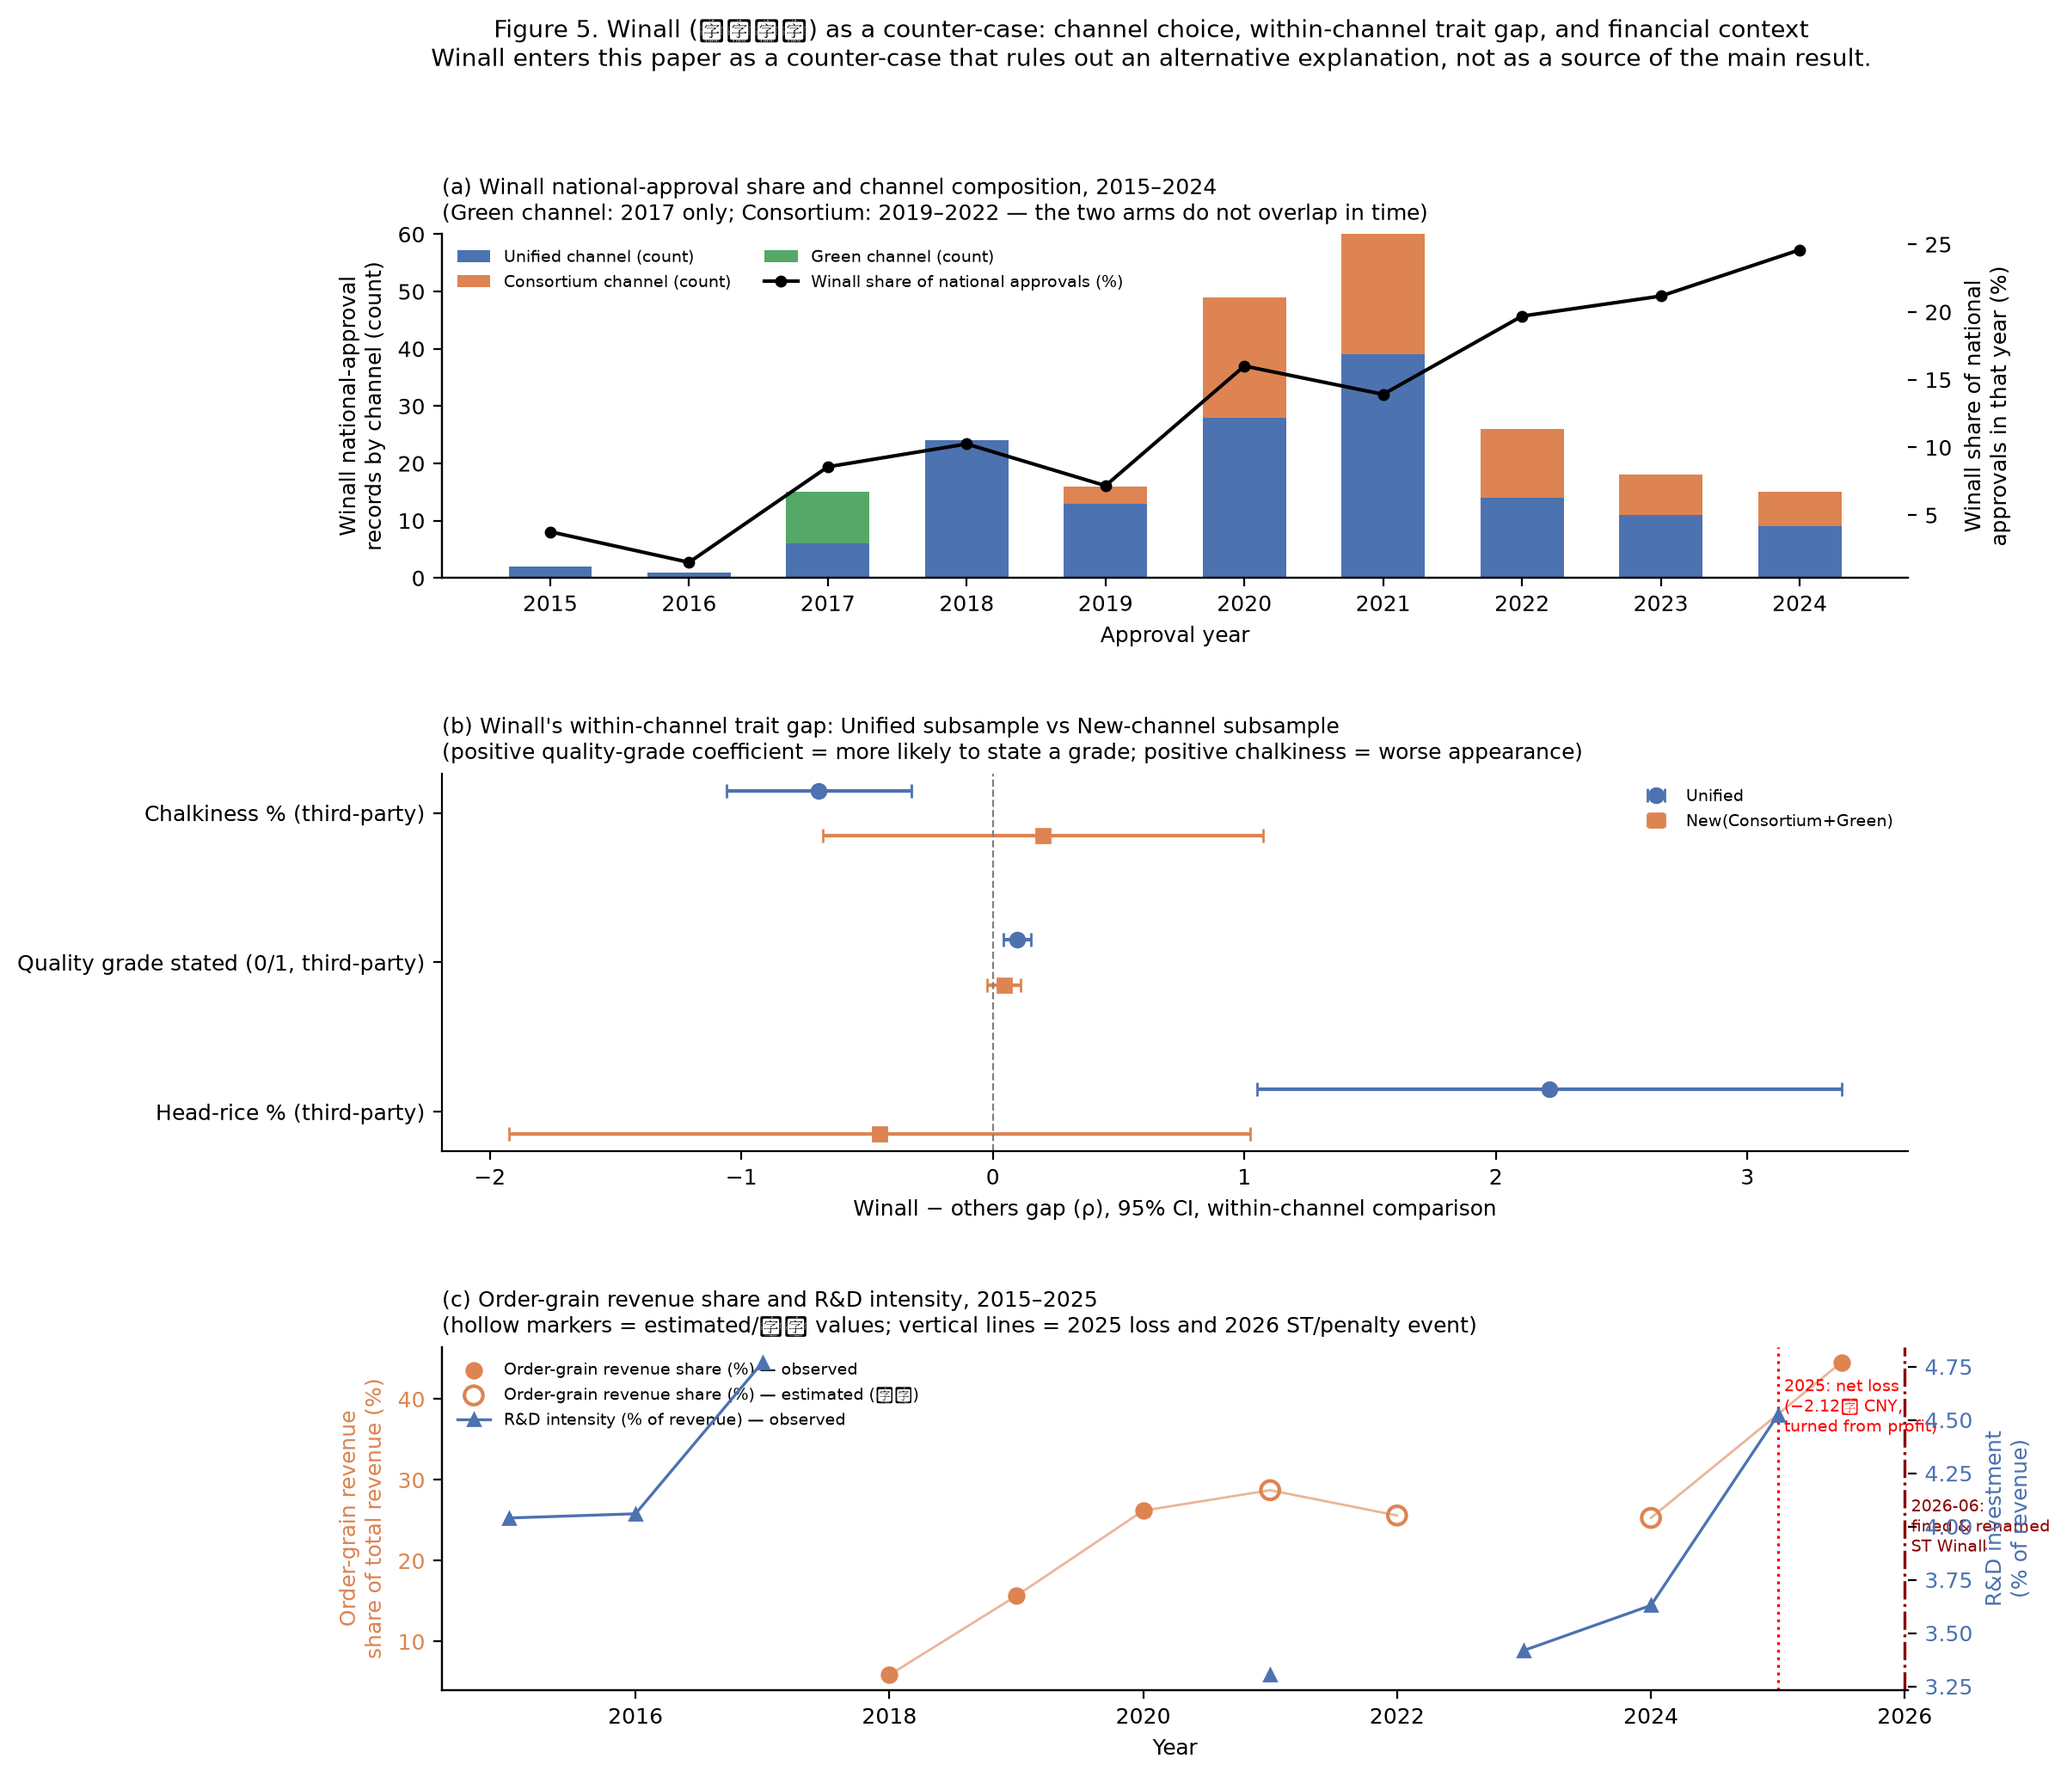
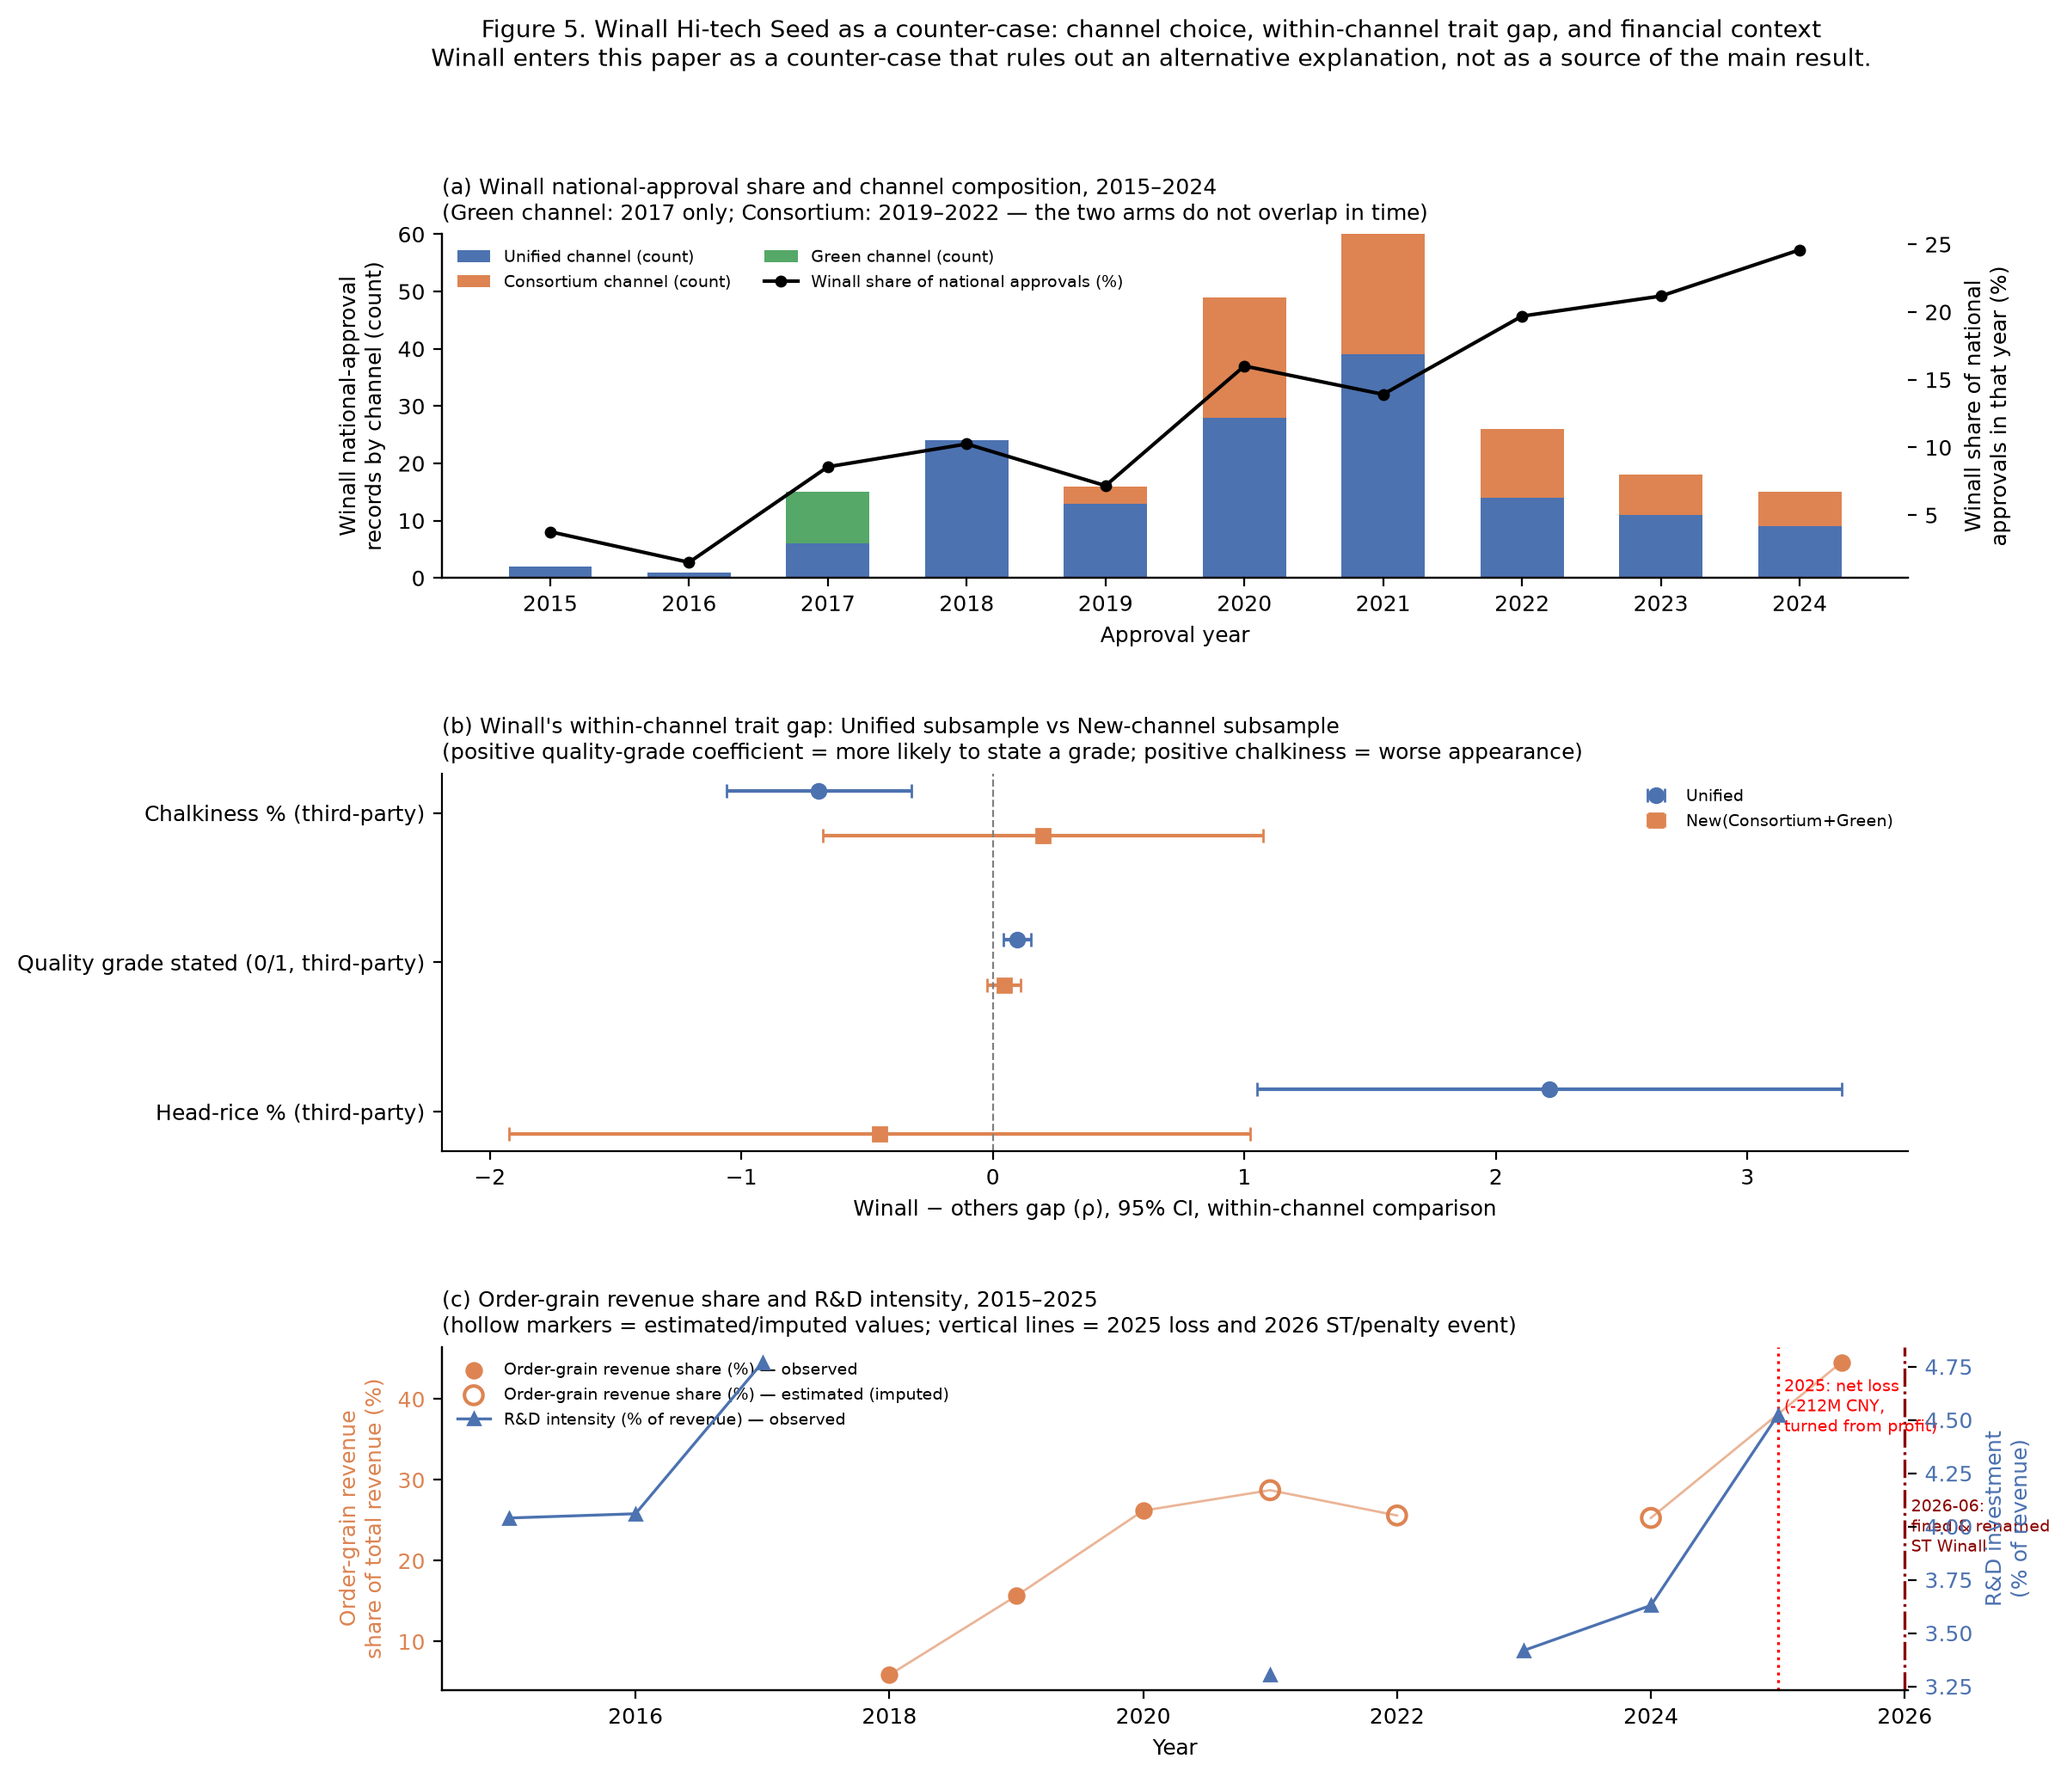
Genericize sci_writer workflow templates: parameterize ROOT path via args.root, drop case-specific 'quanyin-' name prefix
Claude-Session: https://claude.ai/code/session_01CcqZYMkMVHhsffAfbdzjDH

Changed region(s): [[0.2184, 0.0, 0.8735, 0.031], [0.3744, 0.7431, 0.7176, 0.805], [0.8735, 0.7741, 0.9047, 0.805]]

diff --git a/.claude/skills/sci_writer/scripts/workflows/analysis.js b/.claude/skills/sci_writer/scripts/workflows/analysis.js
@@ -1,9 +1,9 @@
 export const meta = {
-  name: 'quanyin-analysis',
+  name: 'analysis',
   description: 'Run the quantitative analyses of the research route on collected data: scripts, figures, tables, results notes; then independent reproduction check',
   phases: [{ title: 'Analyze' }, { title: 'Reproduce' }],
 }
-const ROOT = '/home/user/video'
+const ROOT = (args && args.root) || '/ABSOLUTE/PATH/TO/YOUR/PROJECT' // set via Workflow({args:{root: ...}}) or edit this default before running
 const NOTE = `工具与规范：Python 3.11，已装 pandas/numpy/scipy/matplotlib（中文字体用 'WenQuanYi Zen Hei'，但论文图表一律用英文标签）；图存 ${ROOT}/figures/（PNG 300 dpi + 同名 PDF），脚本存 ${ROOT}/scripts/analysis/（每个脚本可独立运行：python3 script.py），表格以 Markdown 写入 ${ROOT}/manuscript/tables/。所有数据只能来自 ${ROOT}/evidence/data/ 与 ${ROOT}/evidence/*.csv；严禁伪造或插补数据；样本量、缺失处理、统计检验（含 p 值/置信区间/效应量）必须如实报告。图表遵循期刊规范（读取 ${ROOT}/plan/04_format_spec.md）：无图题在图内、字体≥8pt、色盲友好配色、单栏宽 ~85–90 mm 双栏 ~170–180 mm。`
 const SCHEMA = { type: 'object', properties: { scripts: { type: 'array', items: { type: 'string' } }, figures: { type: 'array', items: { type: 'string' } }, tables: { type: 'array', items: { type: 'string' } }, notes_file: { type: 'string' }, key_results: { type: 'array', items: { type: 'string' } }, caveats: { type: 'array', items: { type: 'string' } } }, required: ['scripts', 'figures', 'tables', 'notes_file', 'key_results', 'caveats'] }
 const blocks = (args && args.blocks) || []

diff --git a/.claude/skills/sci_writer/scripts/workflows/drafting.js b/.claude/skills/sci_writer/scripts/workflows/drafting.js
@@ -1,9 +1,9 @@
 export const meta = {
-  name: 'quanyin-drafting',
+  name: 'drafting',
   description: 'Draft manuscript sections in parallel under section contracts and the target-journal format spec; integrate into manuscript_v1.md; build the reference list',
   phases: [{ title: 'Draft' }, { title: 'Integrate' }, { title: 'References' }],
 }
-const ROOT = '/home/user/video'
+const ROOT = (args && args.root) || '/ABSOLUTE/PATH/TO/YOUR/PROJECT' // set via Workflow({args:{root: ...}}) or edit this default before running
 const MS = ROOT + '/manuscript'
 const STYLE = `写作规范（Nature 系刊风格 + 目标期刊格式）：
 - 先立论点：每段首句为主张句，随后证据（数字+图表/引用），末句给边界或含义；不写空泛过渡句。

diff --git a/.claude/skills/sci_writer/scripts/workflows/data_collect.js b/.claude/skills/sci_writer/scripts/workflows/data_collect.js
@@ -1,9 +1,9 @@
 export const meta = {
-  name: 'quanyin-data-collect',
+  name: 'data-collect',
   description: 'Collect the datasets named in args.tasks (each a chunk of variety-level / year-level records) via WebSearch and literature tools; write CSV chunks; then a merger validates and consolidates',
   phases: [{ title: 'Collect' }, { title: 'Merge' }],
 }
-const ROOT = '/home/user/video'
+const ROOT = (args && args.root) || '/ABSOLUTE/PATH/TO/YOUR/PROJECT' // set via Workflow({args:{root: ...}}) or edit this default before running
 const DATA = ROOT + '/evidence/data'
 const ENV_NOTE = `
 工具与环境约束（必须遵守）：

diff --git a/.claude/skills/sci_writer/scripts/workflows/review.js b/.claude/skills/sci_writer/scripts/workflows/review.js
@@ -1,9 +1,9 @@
 export const meta = {
-  name: 'quanyin-review',
+  name: 'review',
   description: 'Pre-submission review: 3 reviewer reports, format compliance, reference verification, number consistency; then revision, final consistency pass, DOCX/PDF build, submission package',
   phases: [{ title: 'Review' }, { title: 'Revise' }, { title: 'Final' }],
 }
-const ROOT = '/home/user/video'
+const ROOT = (args && args.root) || '/ABSOLUTE/PATH/TO/YOUR/PROJECT' // set via Workflow({args:{root: ...}}) or edit this default before running
 const MS = ROOT + '/manuscript'
 const SUB = ROOT + '/submission'
 const REVIEWERS = [

diff --git a/.claude/skills/sci_writer/scripts/workflows/theme_judges.js b/.claude/skills/sci_writer/scripts/workflows/theme_judges.js
@@ -1,9 +1,9 @@
 export const meta = {
-  name: 'quanyin-theme-judges',
+  name: 'theme-judges',
   description: 'Judge panel scores proposals from 3 lenses, then a synthesizer writes the final theme, innovation, argument map and research route',
   phases: [{ title: 'Judge' }, { title: 'Synthesize' }],
 }
-const ROOT = '/home/user/video'
+const ROOT = (args && args.root) || '/ABSOLUTE/PATH/TO/YOUR/PROJECT' // set via Workflow({args:{root: ...}}) or edit this default before running
 const EV = ROOT + '/evidence'
 const PL = ROOT + '/plan'
 const ENV_NOTE = `

diff --git a/.claude/skills/sci_writer/scripts/workflows/theme_proposers.js b/.claude/skills/sci_writer/scripts/workflows/theme_proposers.js
@@ -1,9 +1,9 @@
 export const meta = {
-  name: 'quanyin-theme-proposers',
+  name: 'theme-proposers',
   description: 'Independent proposers each draft a paper theme + innovation + data/method plan from the evidence base (angles in args.angles)',
   phases: [{ title: 'Propose' }],
 }
-const ROOT = '/home/user/video'
+const ROOT = (args && args.root) || '/ABSOLUTE/PATH/TO/YOUR/PROJECT' // set via Workflow({args:{root: ...}}) or edit this default before running
 const EV = ROOT + '/evidence'
 const PL = ROOT + '/plan/proposals'
 const ENV_NOTE = `

diff --git a/.claude/skills/sci_writer/scripts/workflows/journal_eval.js b/.claude/skills/sci_writer/scripts/workflows/journal_eval.js
@@ -1,9 +1,9 @@
 export const meta = {
-  name: 'quanyin-journal-eval',
+  name: 'journal-eval',
   description: 'Evaluate candidate CAS-Q2 agriculture journals against the chosen theme; pick target and write the format spec',
   phases: [{ title: 'Evaluate' }, { title: 'Decide' }],
 }
-const ROOT = '/home/user/video'
+const ROOT = (args && args.root) || '/ABSOLUTE/PATH/TO/YOUR/PROJECT' // set via Workflow({args:{root: ...}}) or edit this default before running
 const EV = ROOT + '/evidence'
 const PL = ROOT + '/plan'
 const ENV_NOTE = `

diff --git a/.claude/skills/sci_writer/scripts/workflows/sweep_part.js b/.claude/skills/sci_writer/scripts/workflows/sweep_part.js
@@ -20,7 +20,7 @@ export const meta = {
   ],
 }
 
-const ROOT = '/home/user/video'
+const ROOT = (args && args.root) || '/ABSOLUTE/PATH/TO/YOUR/PROJECT' // set via Workflow({args:{root: ...}}) or edit this default before running
 const EV = ROOT + '/evidence'
 
 const ENV_NOTE = `

diff --git a/.claude/skills/sci_writer/scripts/workflows/index.js b/.claude/skills/sci_writer/scripts/workflows/index.js
@@ -1,5 +1,5 @@
 export const meta = {
-  name: 'quanyin-evidence-index',
+  name: 'evidence-index',
   description: 'Build evidence/00_INDEX.md summarizing all evidence files, core numbers, datasets, exemplar literature, and contradictions',
   phases: [{ title: 'Index' }],
 }

diff --git a/.claude/skills/sci_writer/scripts/workflows/critic.js b/.claude/skills/sci_writer/scripts/workflows/critic.js
@@ -1,5 +1,5 @@
 export const meta = {
-  name: 'quanyin-critic',
+  name: 'critic',
   description: 'Completeness critic over evidence/: finds the most important gaps for the paper and writes 12_critic_round1.md',
   phases: [{ title: 'Critic' }],
 }

diff --git a/.claude/skills/sci_writer/scripts/workflows/gapfill.js b/.claude/skills/sci_writer/scripts/workflows/gapfill.js
@@ -1,5 +1,5 @@
 export const meta = {
-  name: 'quanyin-gapfill',
+  name: 'gapfill',
   description: 'Fill evidence gaps named in args.gaps by targeted searching; append to evidence files',
   phases: [{ title: 'GapFill' }],
 }

diff --git a/manuscript/scripts/fig5_mechanism.py b/manuscript/scripts/fig5_mechanism.py
@@ -141,7 +141,7 @@ ax_c.plot(og.sort_values("x")["x"], og.sort_values("x")["share_clean"], color="#
 ax_c.scatter(obs["x"], obs["share_clean"], marker="o", color="#DD8452", s=40,
              label="Order-grain revenue share (%) — observed", zorder=3)
 ax_c.scatter(est["x"], est["share_clean"], marker="o", facecolors="none", edgecolors="#DD8452",
-             s=60, linewidths=1.5, label="Order-grain revenue share (%) — estimated (推算)", zorder=3)
+             s=60, linewidths=1.5, label="Order-grain revenue share (%) — estimated (imputed)", zorder=3)
 ax_c.set_ylabel("Order-grain revenue\nshare of total revenue (%)", color="#DD8452")
 ax_c.tick_params(axis="y", labelcolor="#DD8452")
 ax_c.set_xlabel("Year")
@@ -154,21 +154,21 @@ ax_c2.tick_params(axis="y", labelcolor="#4C72B0")
 
 # annotate 2025 loss and 2026 ST event
 ax_c.axvline(2025, color="red", linestyle=":", linewidth=1.2)
-ax_c.text(2025.05, ax_c.get_ylim()[1] * 0.92, "2025: net loss\n(−2.12亿 CNY,\nturned from profit)",
+ax_c.text(2025.05, ax_c.get_ylim()[1] * 0.92, "2025: net loss\n(-212M CNY,\nturned from profit)",
           color="red", fontsize=7, va="top")
 ax_c.axvline(2026.0, color="darkred", linestyle="-.", linewidth=1.2)
 ax_c.text(2026.05, ax_c.get_ylim()[1] * 0.60, "2026-06:\nfined & renamed\nST Winall",
           color="darkred", fontsize=7, va="top")
 
 ax_c.set_title("(c) Order-grain revenue share and R&D intensity, 2015–2025\n"
-                "(hollow markers = estimated/推算 values; vertical lines = 2025 loss and 2026 ST/penalty event)",
+                "(hollow markers = estimated/imputed values; vertical lines = 2025 loss and 2026 ST/penalty event)",
                 fontsize=9, loc="left")
 
 h1, l1 = ax_c.get_legend_handles_labels()
 h2, l2 = ax_c2.get_legend_handles_labels()
 ax_c.legend(h1 + h2, l1 + l2, fontsize=7, loc="upper left", frameon=False)
 
-fig.suptitle("Figure 5. Winall (荃银高科) as a counter-case: channel choice, within-channel trait gap, and financial context\n"
+fig.suptitle("Figure 5. Winall Hi-tech Seed as a counter-case: channel choice, within-channel trait gap, and financial context\n"
              "Winall enters this paper as a counter-case that rules out an alternative explanation, not as a source of the main result.",
              fontsize=10, y=0.995)
 
